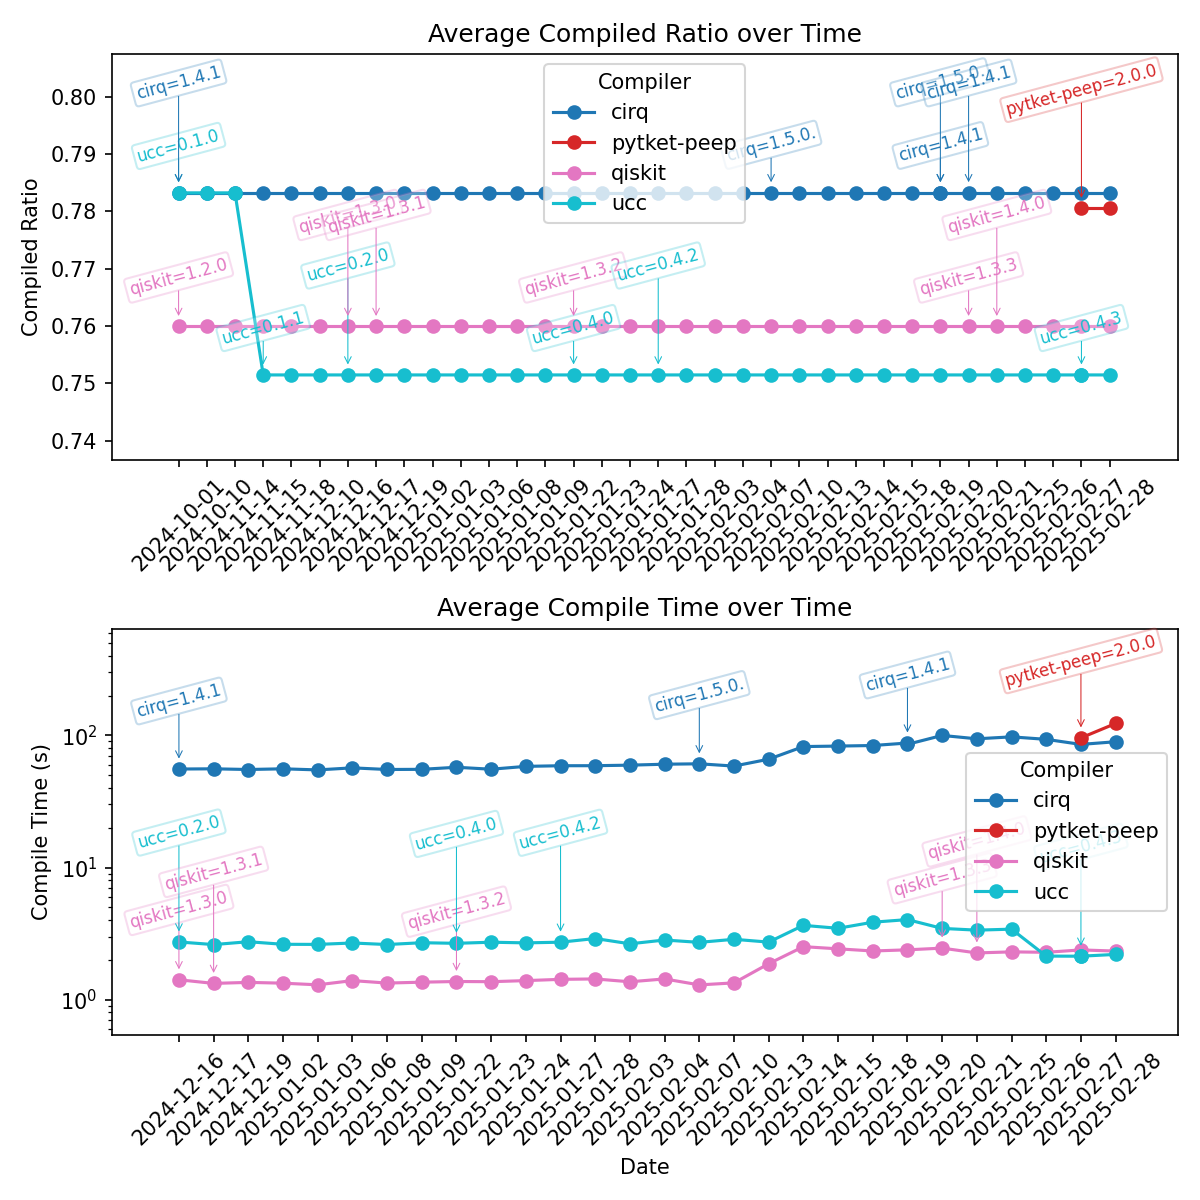
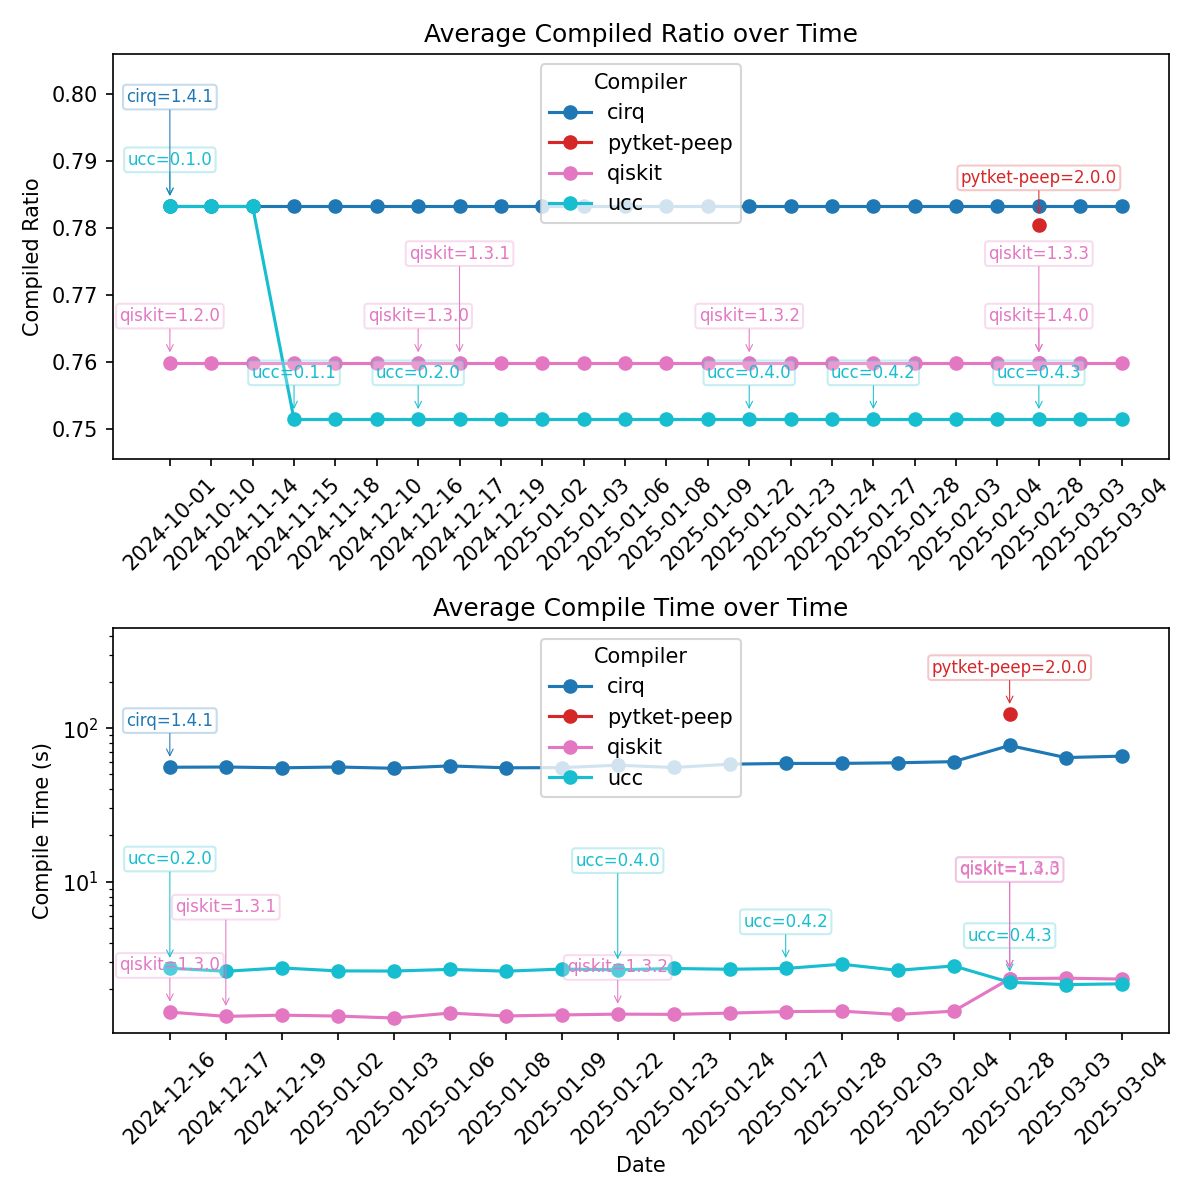
Removing data from specified dates from plot, plus a few style adjustments (#283)

Changed region(s): [[0.0308, 0.4008, 0.9867, 0.9867], [0.0, 0.0, 0.9867, 0.37]]

diff --git a/benchmarks/scripts/plot_avg_benchmarks_over_time.py b/benchmarks/scripts/plot_avg_benchmarks_over_time.py
@@ -46,6 +46,11 @@ df_dates = pd.concat(dataframes, ignore_index=True)
 # Remove older implementation of pytket from the data
 df_dates = df_dates[df_dates["compiler"] != "pytket"]
 
+# Remove data from dates between 2025-02-07 through 2025-02-28 while #251 was being fixed
+df_dates = df_dates[
+    ~((df_dates["date"] >= "2025-02-07") & (df_dates["date"] < "2025-02-28"))
+]
+
 # Find the average compiled ratio for each compiler on each date
 avg_compiled_ratio = (
     df_dates.groupby(["compiler", "date", "compiler_version"])[
@@ -122,22 +127,20 @@ for date in avg_compiled_ratio["date"].unique():
                 xy=xy,
                 color=color,
                 previous_bboxes=previous_bboxes,
-                offset=(0, 15),  # Initial offset
+                offset=(0, 20),  # Initial offset
                 increment=2,  # Vertical adjustment step
                 max_attempts=15,
             )
             # plt.pause(0.1)
             # Update the last seen version for this compiler
             last_version_seen[compiler] = current_version
-    # previous_bboxes = [] # Reset previous bboxes for next date
-adjust_axes_to_fit_labels(ax[0], x_scale=1.01, y_scale=1.3)
+
 # Set y axis range to be slightly larger than data range
+adjust_axes_to_fit_labels(ax[0], y_scale=[1.1, 1.3])
 
 ax[0].set_title("Average Compiled Ratio over Time")
 ax[0].set_ylabel("Compiled Ratio")
-# ax[0].set_ylim(0.745, 0.96)
-# Expand axes to be slightly larger than data range
-ax[0].legend(title="Compiler")
+ax[0].legend(title="Compiler", loc="upper center")
 
 
 #### Plot Compile time
@@ -184,9 +187,9 @@ for date in avg_compile_time["date"].unique():
                 xy=xy,
                 color=color,
                 previous_bboxes=previous_bboxes,
-                offset=(0, 25),  # Initial offset
+                offset=(0, 20),  # Initial offset
                 increment=2,  # Vertical adjustment step
-                max_attempts=10,
+                max_attempts=15,
             )
             # plt.pause(0.1)
             # Update the last seen version for this compiler
@@ -196,8 +199,8 @@ ax[1].set_title("Average Compile Time over Time")
 ax[1].set_ylabel("Compile Time (s)")
 ax[1].set_xlabel("Date")
 ax[1].set_yscale("log")
-ax[1].legend(title="Compiler")
-adjust_axes_to_fit_labels(ax[1], x_scale=1.01, y_scale=1.9, y_log=True)
+ax[1].legend(title="Compiler", loc="upper center")
+adjust_axes_to_fit_labels(ax[1], y_scale=[1.0, 1.9], y_log=True)
 
 plt.xticks(rotation=45)
 plt.tight_layout()

diff --git a/benchmarks/scripts/common.py b/benchmarks/scripts/common.py
@@ -402,7 +402,7 @@ def annotate_and_adjust(
         ha="center",
         fontsize=fontsize,
         color=color,
-        rotation=15,
+        rotation=0,
         arrowprops=dict(
             arrowstyle="->",
             color=color,
@@ -463,15 +463,15 @@ def annotate_and_adjust(
 
 
 def adjust_axes_to_fit_labels(
-    ax, x_scale=1.0, y_scale=1.0, x_log=False, y_log=False
+    ax, x_scale=[1.0, 1.0], y_scale=[1.0, 1.0], x_log=False, y_log=False
 ):
     """
     Adjust the axes limits to ensure all labels and annotations fit within the view. In-place operation.
 
     Parameters:
     - ax: The Matplotlib axes object to adjust.
-    - x_scale: The factor by which to expand the x-axis limits.
-    - y_scale: The factor by which to expand the y-axis limits.
+    - x_scale: A list with two values [left_factor, right_factor] to scale the x-axis.
+    - y_scale: A list with two values [bottom_factor, top_factor] to scale the y-axis.
     - x_log: Set to True if the x-axis uses a logarithmic scale.
     - y_log: Set to True if the y-axis uses a logarithmic scale.
     """
@@ -504,22 +504,23 @@ def adjust_axes_to_fit_labels(
         if bbox.y1 > y_max:  # Top edge
             y_max = bbox.y1
 
-    # Apply scaling factors based on whether axes are logarithmic
+    # Apply scaling factors for x-axis
     if x_log:
-        x_min = x_min / x_scale
-        x_max = x_max * x_scale
+        x_min = x_min / x_scale[0]  # Left scaling
+        x_max = x_max * x_scale[1]  # Right scaling
     else:
         x_range = x_max - x_min
-        x_min -= (x_scale - 1) * x_range
-        x_max += (x_scale - 1) * x_range
+        x_min -= (x_scale[0] - 1) * x_range  # Left scaling
+        x_max += (x_scale[1] - 1) * x_range  # Right scaling
 
+    # Apply scaling factors for y-axis
     if y_log:
-        y_min = y_min / y_scale
-        y_max = y_max * y_scale
+        y_min = y_min / y_scale[0]  # Bottom scaling
+        y_max = y_max * y_scale[1]  # Top scaling
     else:
         y_range = y_max - y_min
-        y_min -= (y_scale - 1) * y_range
-        y_max += (y_scale - 1) * y_range
+        y_min -= (y_scale[0] - 1) * y_range  # Bottom scaling
+        y_max += (y_scale[1] - 1) * y_range  # Top scaling
 
     # Set the new axis limits
     ax.set_xlim(x_min, x_max)
